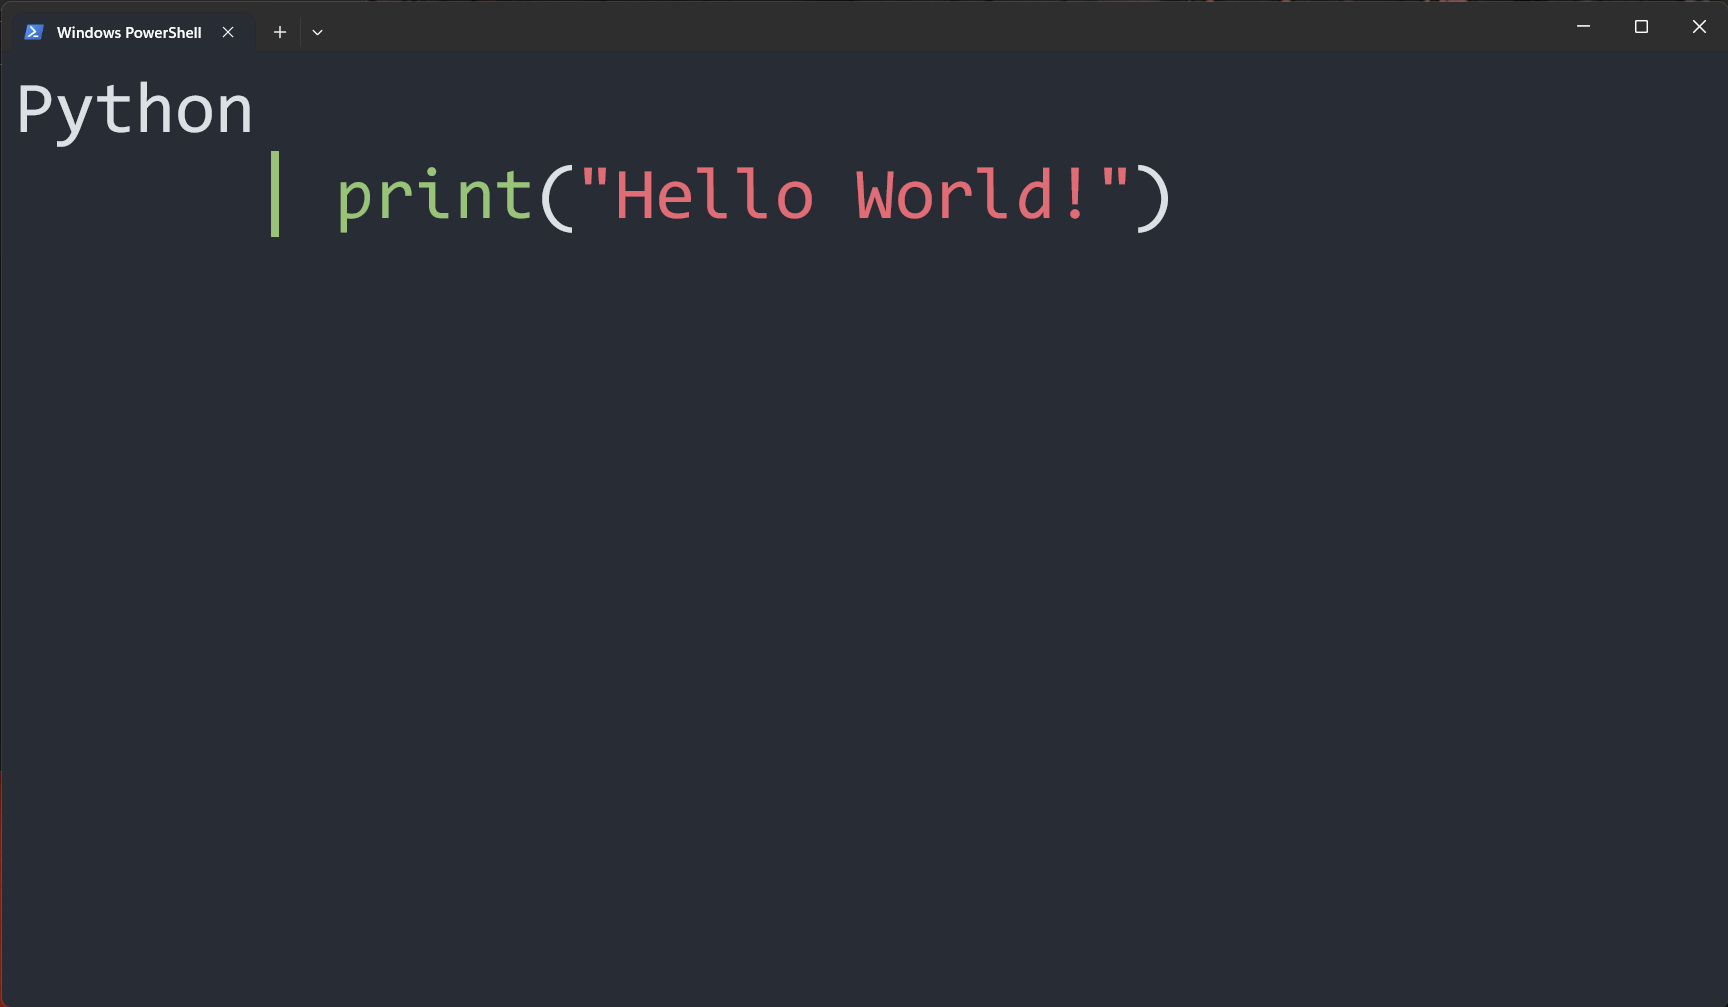
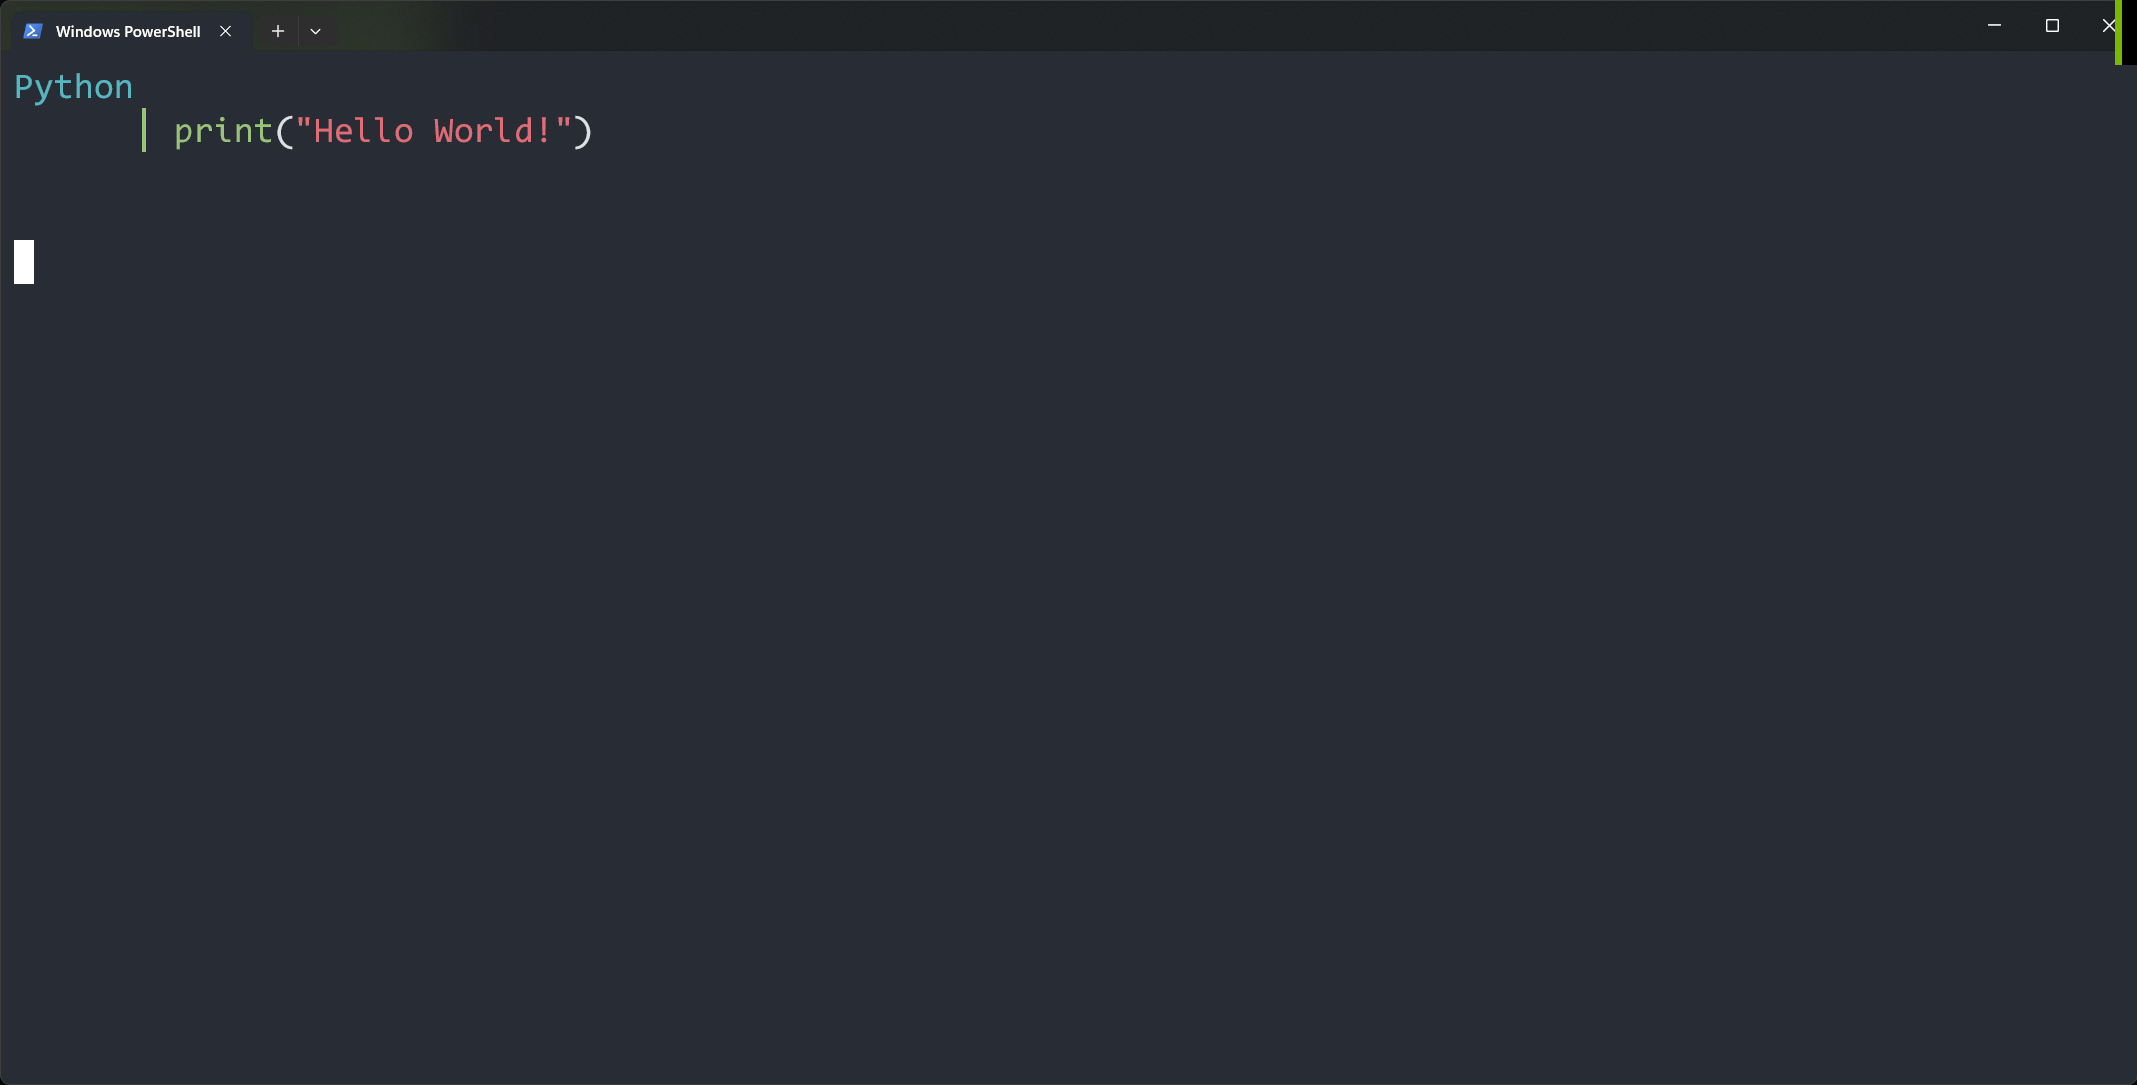
added image to ascii

Changed region(s): [[0.0, 0.0, 0.6875, 0.2463], [0.9375, 0.0, 1.0, 0.0616], [0.0, 0.2155, 0.0312, 0.2771]]

diff --git a/gomdp.go b/gomdp.go
@@ -10,11 +10,13 @@ import (
 	markdown "github.com/MichaelMure/go-term-markdown"
 	"github.com/eiannone/keyboard"
 	"github.com/fatih/color"
+	"github.com/qeesung/image2ascii/convert"
 )
 
 type Slide struct {
 	Title string
 	Lines []string
+	Image string
 	Page  int
 }
 
@@ -28,13 +30,13 @@ type Presentation struct {
 
 func (p *Presentation) setInfo(info []string) {
 	switch info[0] {
-	case "!author":
+	case "?author":
 		p.Author = info[1]
 
-	case "!title":
+	case "?title":
 		p.Title = info[1]
 
-	case "!date":
+	case "?date":
 		p.Date = info[1]
 	}
 }
@@ -56,10 +58,12 @@ func (p *Presentation) readMd(path string) {
 
 		if line != "" {
 			switch ch := line[0]; ch {
-			case '!':
+			// information about markdown file
+			case '?':
 				info := strings.SplitN(line, ": ", 2)
 				p.setInfo(info)
 
+			// titles (for slide titles)
 			case '#':
 				titleLine := strings.Split(line, "# ")
 				if len(titleLine) > 1 {
@@ -70,9 +74,14 @@ func (p *Presentation) readMd(path string) {
 					}
 					p.Slides = append(p.Slides, slide)
 				}
+
+			// images
+			case '!':
+				imageUrl := strings.Trim(strings.Split(line, "![](")[1], ")")
+				p.Slides[numPage-1].Image = imageUrl
 			}
 		}
-		if numPage > 0 && !(strings.HasPrefix(line, "# ")) {
+		if numPage > 0 && !(strings.HasPrefix(line, "# ")) && !(strings.HasPrefix(line, "![](")) {
 			p.Slides[numPage-1].Lines = append(p.Slides[numPage-1].Lines, line)
 		}
 	}
@@ -82,13 +91,27 @@ func clearScreen() {
 	fmt.Printf("\x1bc")
 }
 
+func (s Slide) printAsciiImage() {
+	convertOptions := convert.DefaultOptions
+	convertOptions.FixedWidth = 80
+	convertOptions.FixedHeight = 20
+
+	converter := convert.NewImageConverter()
+	fmt.Print(converter.ImageFile2ASCIIString(s.Image, &convertOptions))
+}
+
 func displaySlide(s Slide) {
 	slideContent := strings.Join(s.Lines, "\n")
 	// slideDisplayText := fmt.Sprintf("%s\n\t\n%s", s.Title, slideContent)
 	slideDisplayText := markdown.Render(slideContent, 80, 6)
 
-	fmt.Println(s.Title)
+	// fmt.Println(s.Title)
+	color.New(color.FgCyan, color.Bold).Printf("%s\n", s.Title)
 	fmt.Println(string(slideDisplayText))
+
+	if s.Image != "" {
+		s.printAsciiImage()
+	}
 }
 
 func (p *Presentation) displayPresentation() {
@@ -140,7 +163,6 @@ func (p *Presentation) displayPresentation() {
 			fmt.Println("Quitting...")
 			os.Exit(0)
 		}
-
 	}
 }
 

diff --git a/TESTING/imageRender.go b/TESTING/imageRender.go
@@ -1,0 +1,25 @@
+package main
+
+import (
+	"fmt"
+	_ "image/jpeg"
+	_ "image/png"
+	"strings"
+
+	"github.com/qeesung/image2ascii/convert"
+)
+
+func main() {
+	// Create convert options
+	convertOptions := convert.DefaultOptions
+	convertOptions.Ratio = 0.12
+	convertOptions.FixedWidth = 100
+	convertOptions.FixedHeight = 40
+
+	// Create the image converter
+	filenameMd := "![](../imgs/gologo.png)"
+	imagePath := strings.Trim(strings.Split(filenameMd, "![](")[1], ")")
+
+	converter := convert.NewImageConverter()
+	fmt.Print(converter.ImageFile2ASCIIString(imagePath, &convertOptions))
+}

diff --git a/README.md b/README.md
@@ -9,7 +9,7 @@ go run gomdp.go --path sample.md
 Now you can use the left and right arrow keys to move to the next or previous slide. Our `sample.md` presentation
 should looke like this:
 
-> **_INFO:_** You can navigate through the presentation using your left and right arrow keys. Press 'q' to quit. 
+> **_INFO:_** You can navigate through the presentation using your left and right arrow keys. Press 'q' to quit. Images get converted into colored ASCII art
 
 ![titleslide](./imgs/TitleSlide.png)
 
@@ -18,3 +18,5 @@ should looke like this:
 ![slide2](./imgs/Slide2.png)
 
 ![slide3](./imgs/Slide3.png)
+
+![slide4](./imgs/Slide4.png)

diff --git a/sample.md b/sample.md
@@ -1,6 +1,6 @@
-!author: Rubén Mena
-!title: Hello Worlds
-!date: 14.06.2023
+?author: Rubén Mena
+?title: Hello Worlds
+?date: 14.06.2023
 
 # Python
 ```python
@@ -19,6 +19,11 @@ func main() {
     fmt.Println("Hello World")
 }
 ```
+
+# Go Logo
+This is the go logo:
+
+![](./imgs/gologo.png)
 
 # the end
 This is the end!
